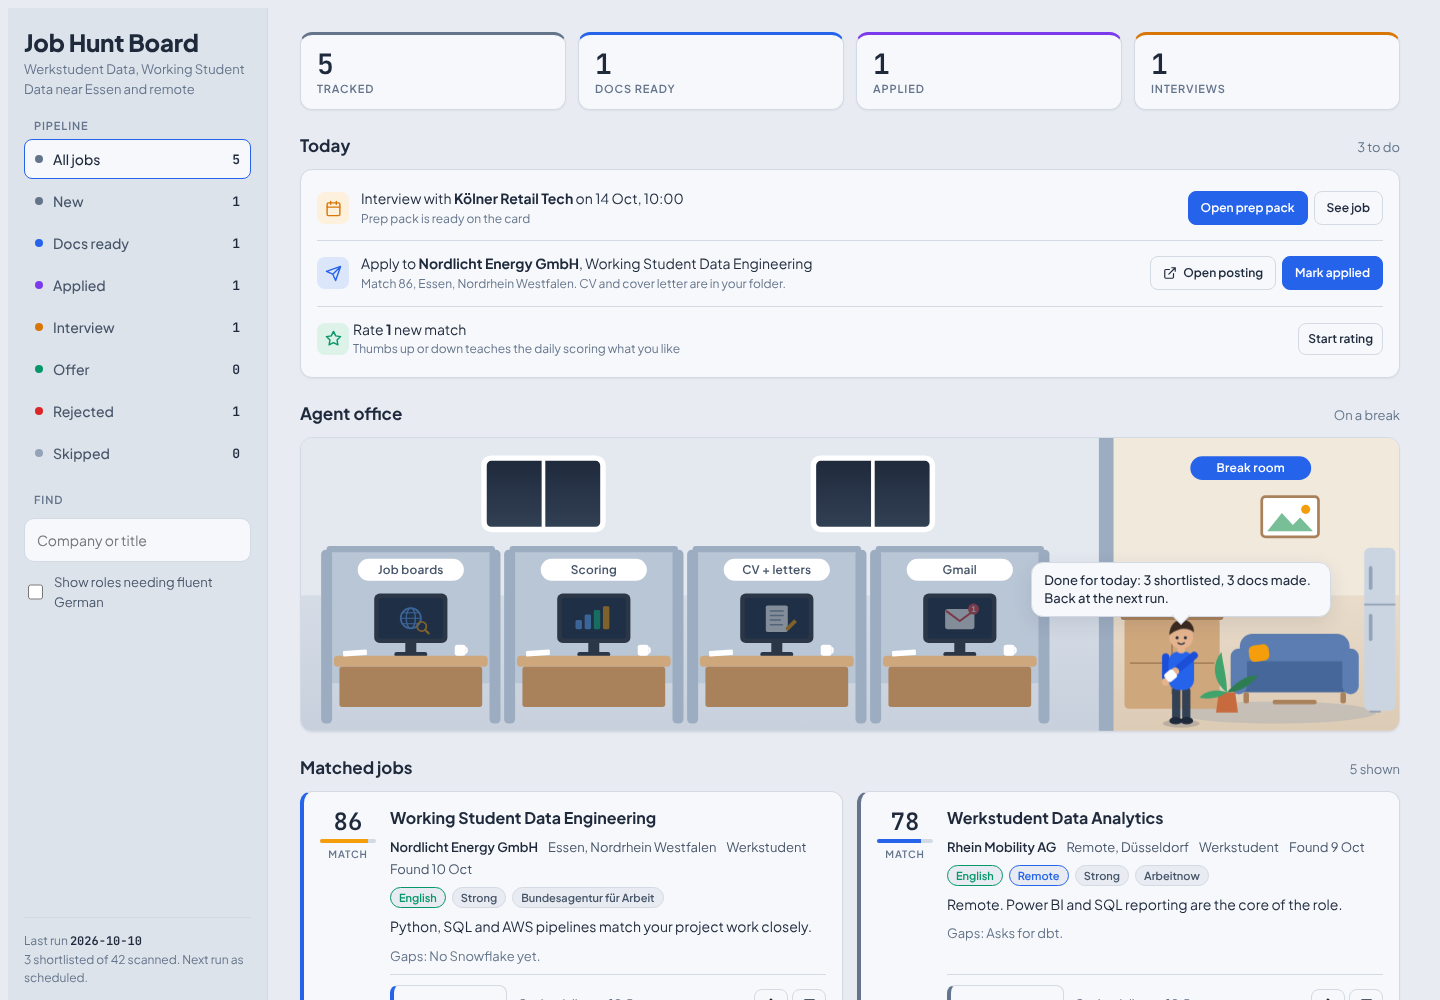
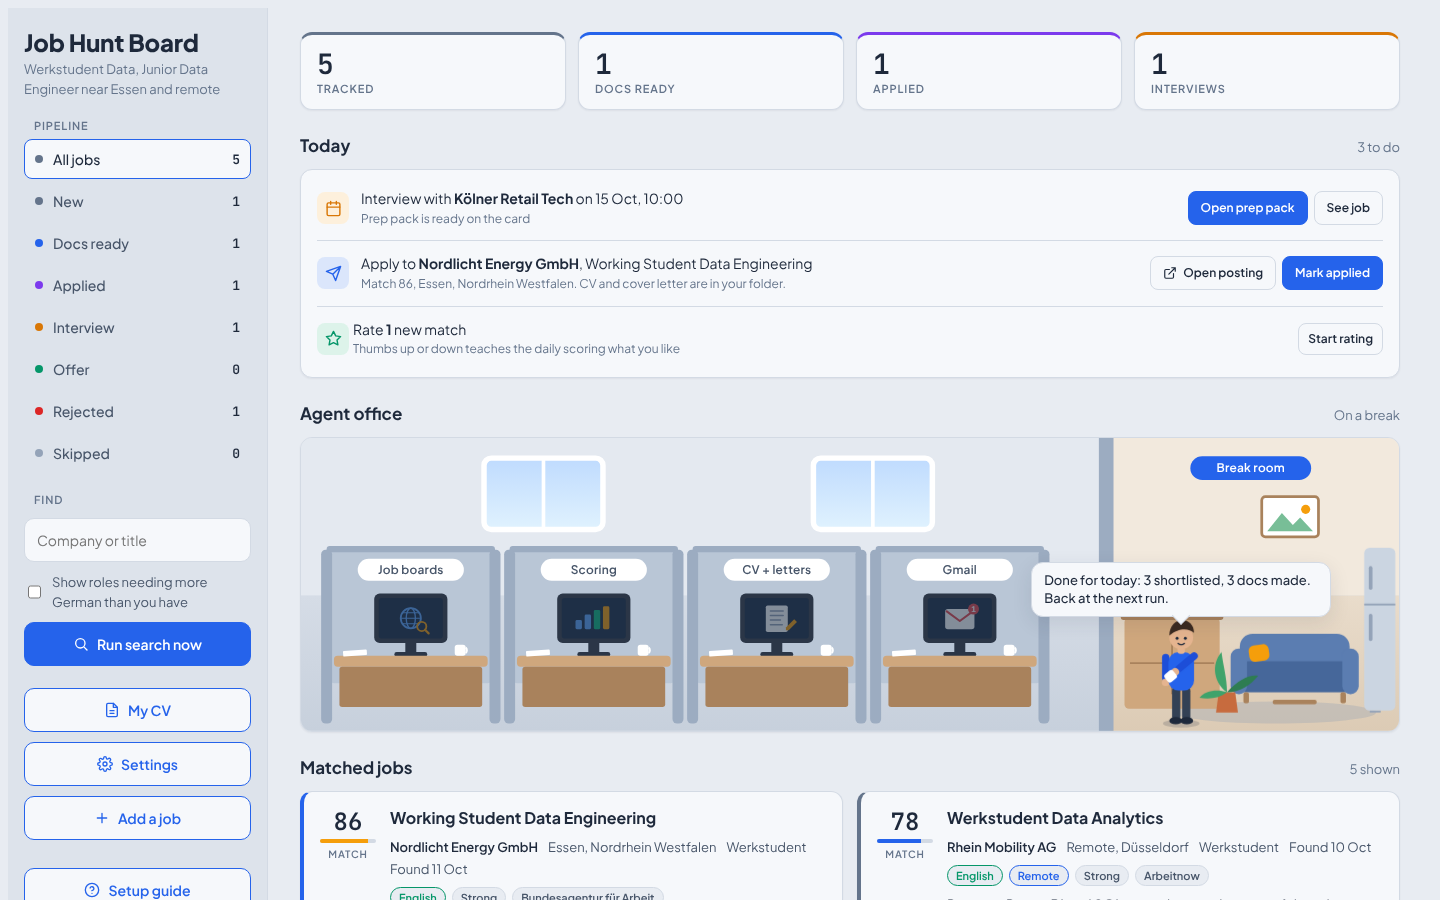
Prepare for GitHub: metadata, ignore rules, bug report template, new screenshot

diff --git a/.github/ISSUE_TEMPLATE/bug_report.md b/.github/ISSUE_TEMPLATE/bug_report.md
@@ -1,0 +1,27 @@
+---
+name: Bug report
+about: Something does not work as described
+---
+
+**Before you post:** remove API keys, your CV details, email address and phone number from everything below. Issues are public.
+
+**What happened**
+
+**What you expected**
+
+**Steps to reproduce**
+
+**Your setup**
+* Operating system:
+* Python version (`python --version`), or Docker:
+* AI model provider (none, ollama, anthropic, ...):
+
+**Output of `jobhunt doctor`**
+```
+paste here
+```
+
+**Error output** (run the command again with `-v`, for example `jobhunt -v run`)
+```
+paste here
+```
